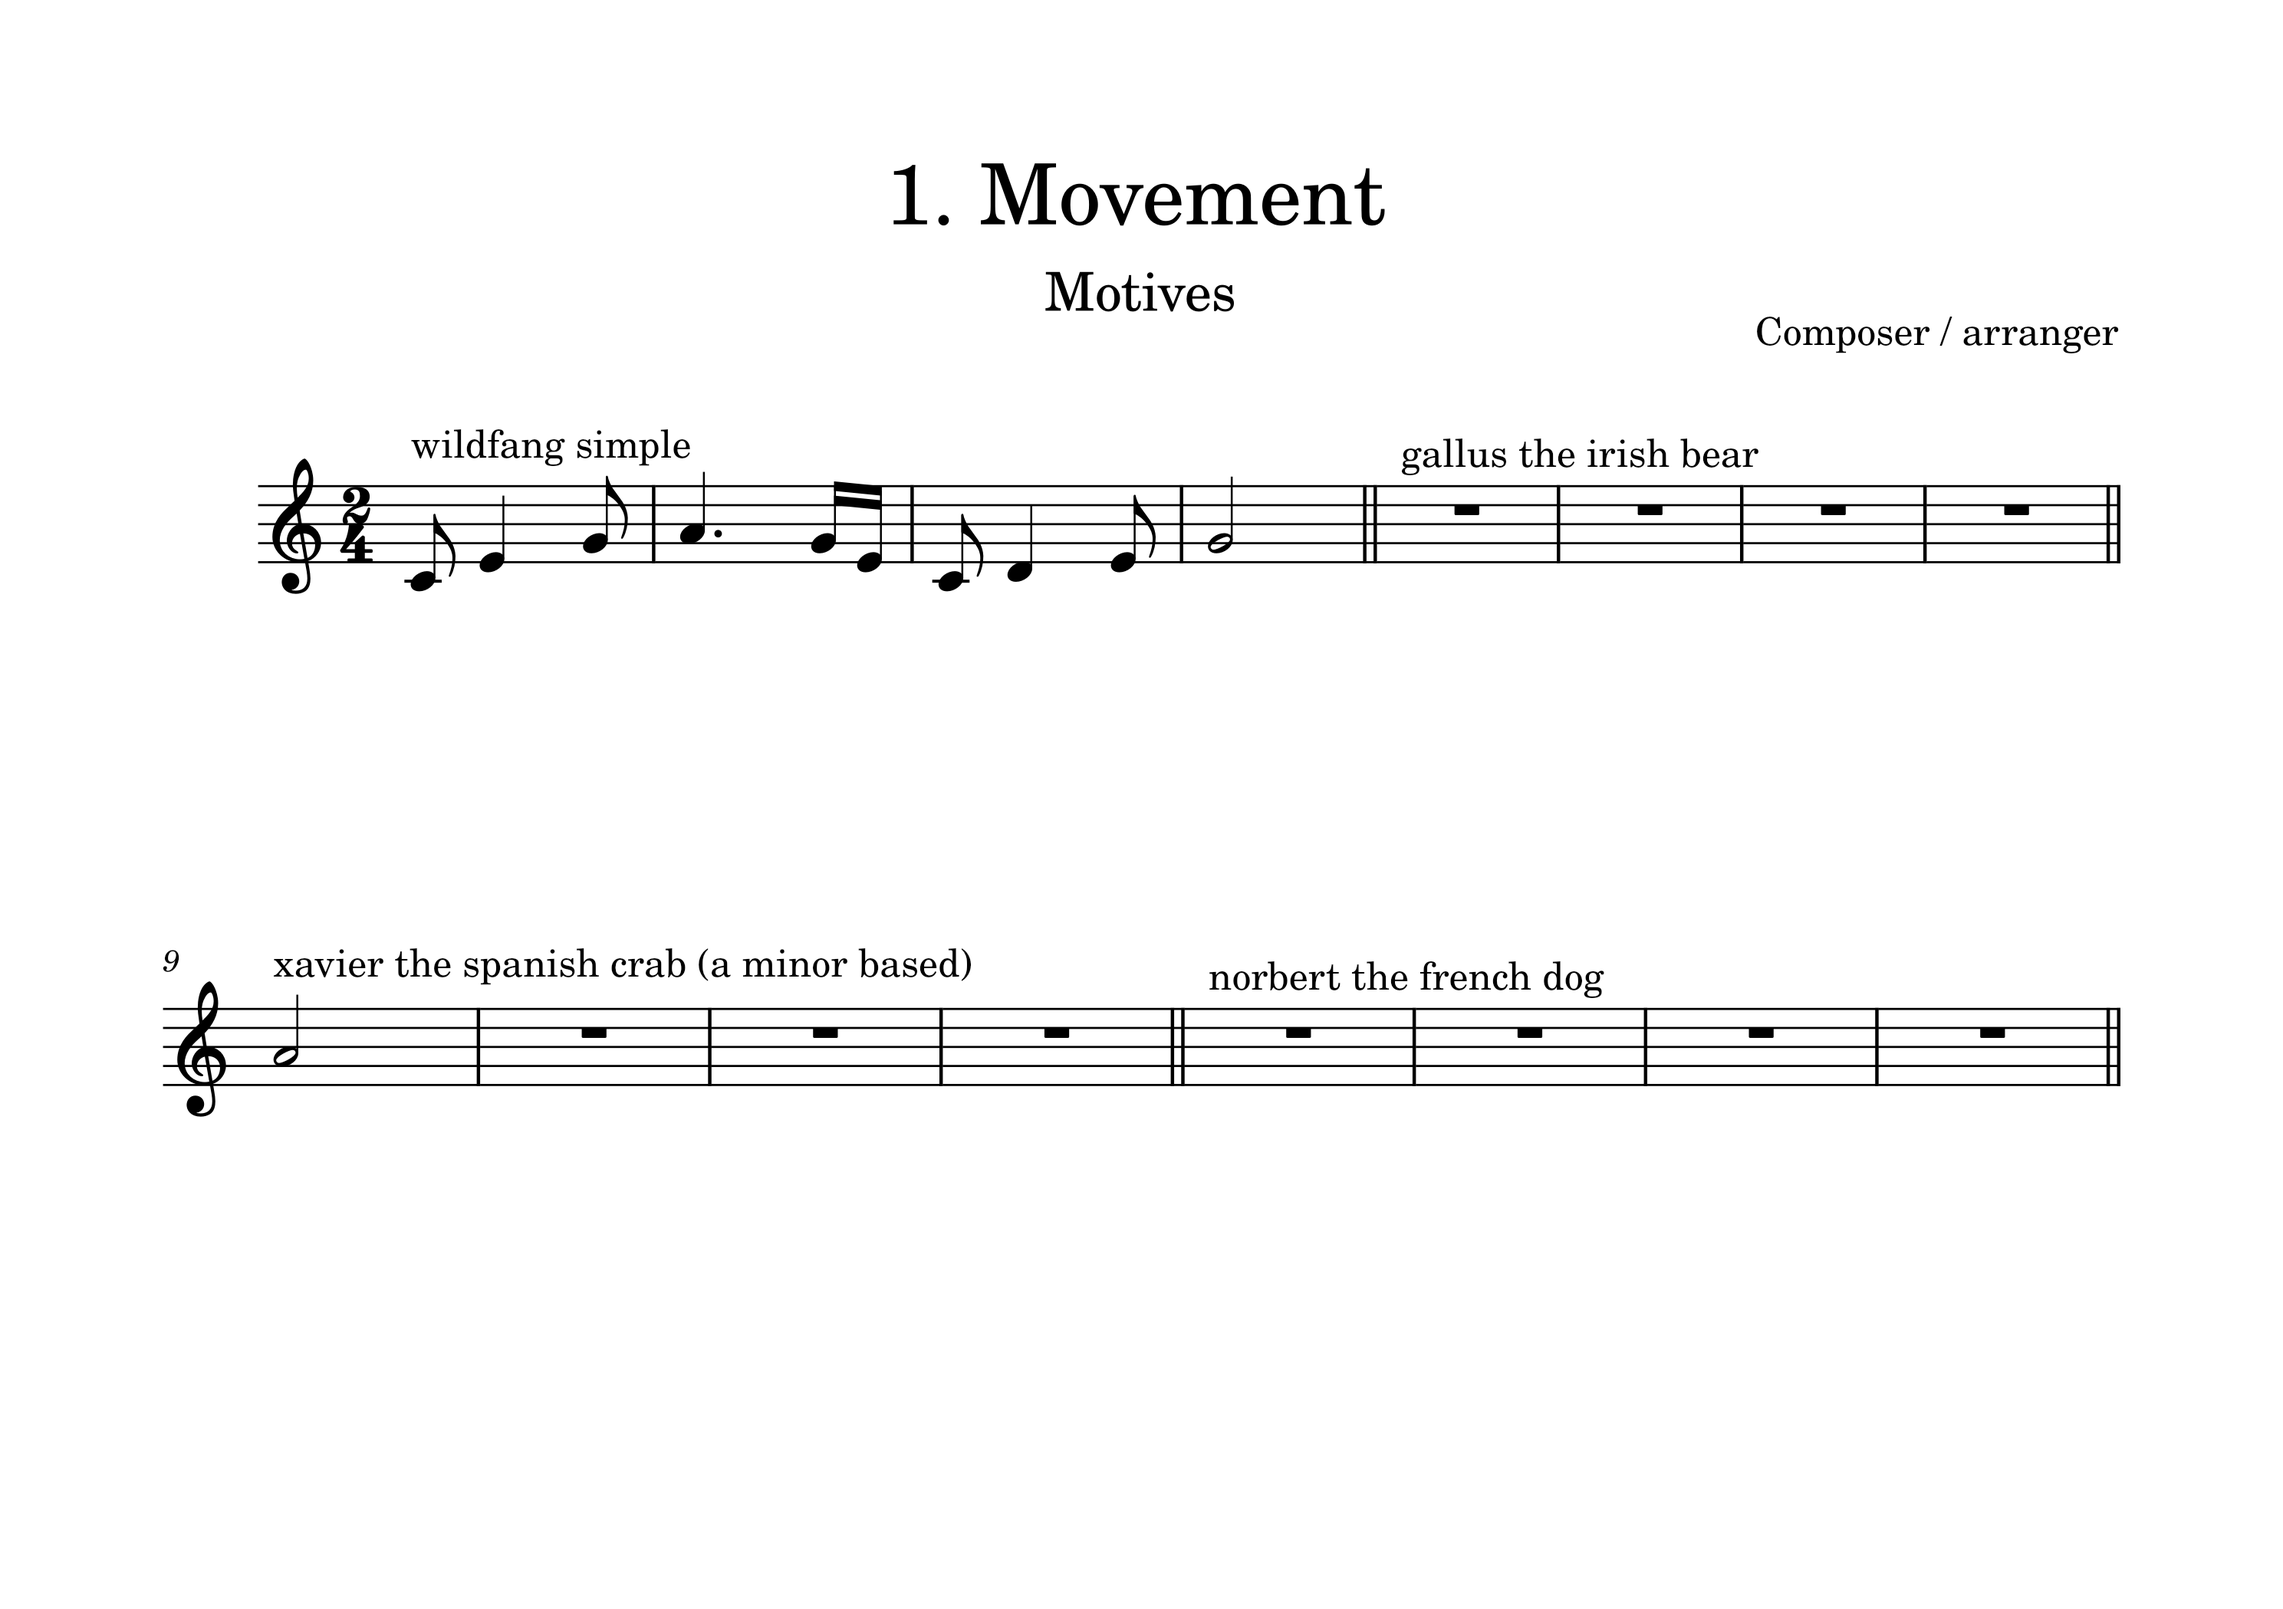
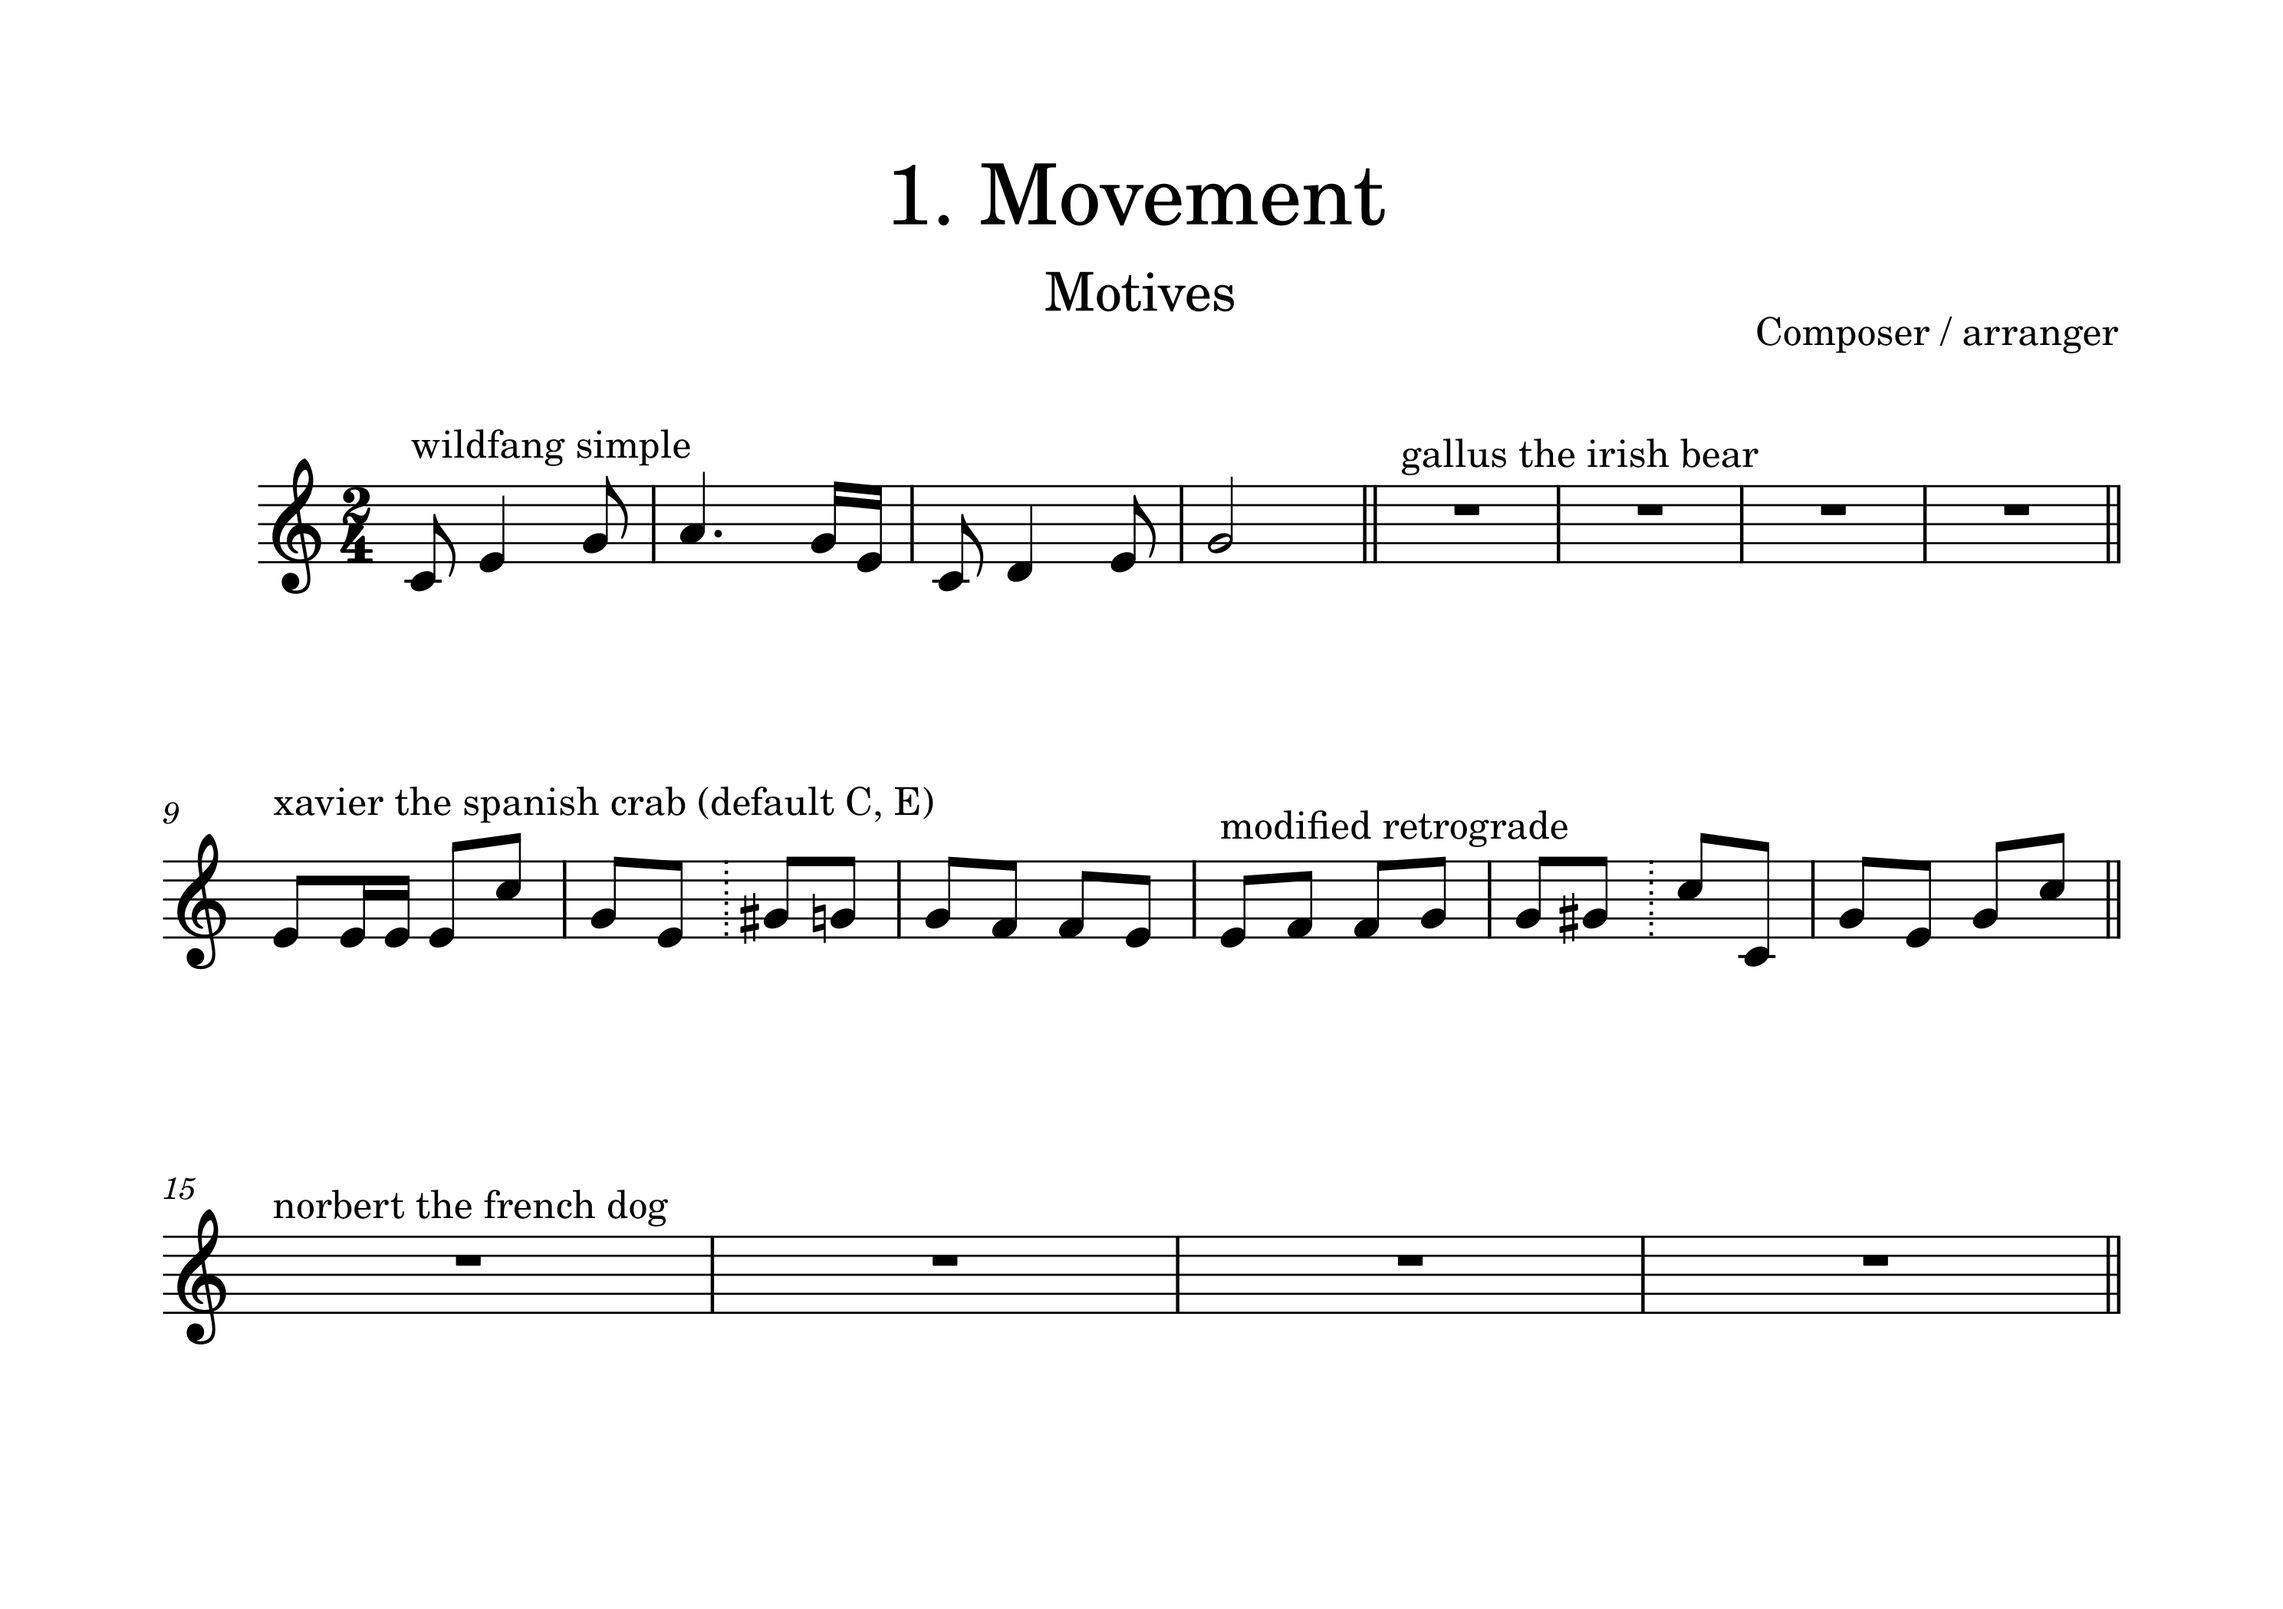
add crab theme and info

Changed region(s): [[0.0625, 0.4955, 0.9372, 0.7122], [0.0625, 0.7432, 0.9372, 0.8361]]

diff --git a/README.md b/README.md
@@ -34,7 +34,8 @@ In a Landscape of Ice and Fire.
 - **A.1 Section**
   - short
 - **C Section** Xaver the spanish crab
-  - a minor based to make a certain cadence accessible
+  - a minor accessible, to make a certain cadence accessible
+  - rhythms based on contradanza, tresillo, cinquillo, bele (belair), son montuno/tumbao piano bass, zouk, bachata zouk
 - **A.2 Section**
   - short
 - **D Section** Norbert the french dog
